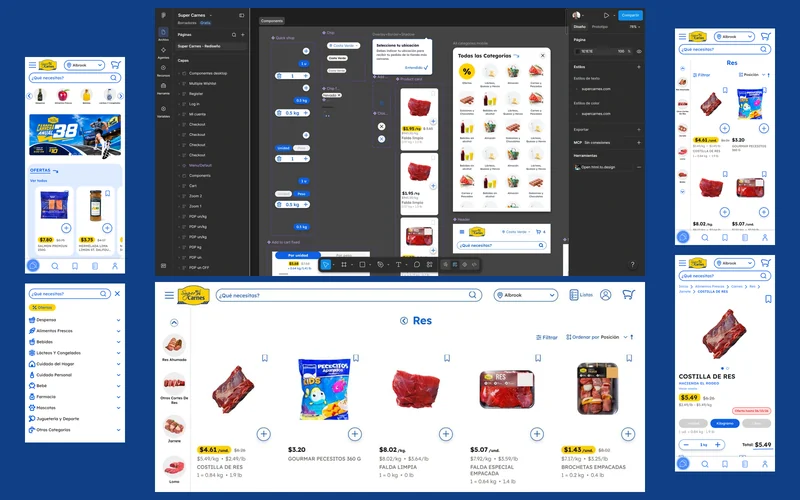
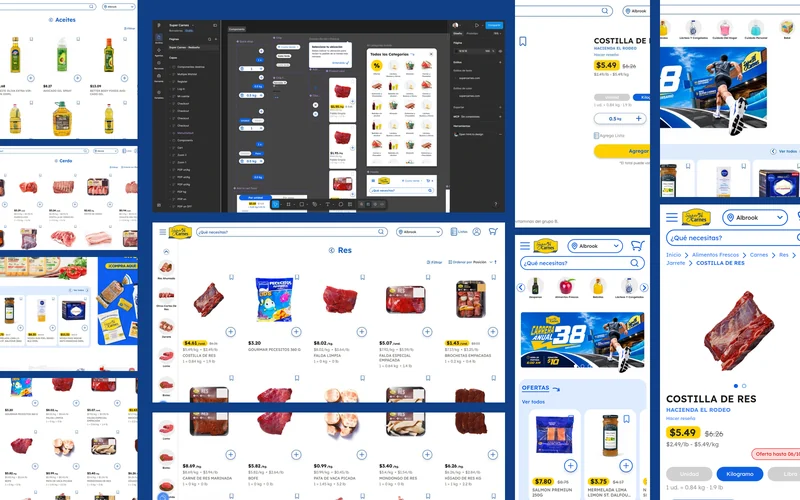
Super Carnes: el mosaico pasa a la retícula del de New Balance
Cuatro columnas: las laterales sangran por los bordes con recortes de otras
categorías, el home y las ofertas; la central lleva las piezas grandes, que
son las únicas que entran en el recorte cuadrado de la tarjeta; y las dos de
la derecha combinan la ficha en escritorio con el sitio en el celular, igual
que el de New Balance.

El fondo azul de la marca queda como canaleta entre las piezas.

Claude-Session: https://claude.ai/code/session_01M2dDEhZcV7tUGrJanzxNgs

diff --git a/diseno/index.html b/diseno/index.html
@@ -231,7 +231,7 @@
           <figure>
             <img src="../img/sc-mosaico.webp"
                  srcset="../img/sc-mosaico-800.webp 800w, ../img/sc-mosaico.webp 1600w" sizes="(max-width: 900px) 92vw, 1200px" width="1600" height="1000" loading="lazy"
-                 alt="Mosaico del proyecto Super Carnes. En el centro, el archivo de Figma con la librería de componentes y, debajo, el listado en producción: cada tarjeta de producto muestra el precio por unidad y por kilo, la equivalencia entre las dos y un botón para agregar. A los costados, el sitio en el celular: el home, el menú de categorías, el listado y la ficha con el selector y el total.">
+                 alt="Mosaico del proyecto Super Carnes. En el centro, el archivo de Figma con la librería de componentes y, debajo, el listado en producción: cada tarjeta de producto muestra el precio por unidad y por kilo, la equivalencia entre las dos y un botón para agregar. Alrededor, los listados de otras categorías, el home, la ficha con el selector de unidad, kilogramo y libra, y el sitio en el celular.">
             <figcaption>El archivo de Figma y el sitio en producción: la tarjeta de producto quedó con los dos precios, la equivalencia y el botón para agregar.</figcaption>
           </figure>
           <figure>

diff --git a/en/diseno/index.html b/en/diseno/index.html
@@ -231,7 +231,7 @@
           <figure>
             <img src="../../img/sc-mosaico.webp"
                  srcset="../../img/sc-mosaico-800.webp 800w, ../../img/sc-mosaico.webp 1600w" sizes="(max-width: 900px) 92vw, 1200px" width="1600" height="1000" loading="lazy"
-                 alt="Mosaic of the Super Carnes project. At the centre, the Figma file with the component library and, below it, the live listing: every product card shows the price per unit and per kilo, the equivalence between them and a button to add. On either side, the site on a phone: the home, the category menu, the listing and the product page with its selector and total.">
+                 alt="Mosaic of the Super Carnes project. At the centre, the Figma file with the component library and, below it, the live listing: every product card shows the price per unit and per kilo, the equivalence between them and a button to add. Around them, listings from other categories, the home page, the product page with its unit, kilogram and pound selector, and the site on a phone.">
             <figcaption>The Figma file and the live site: the product card ended up with both prices, the equivalence and the add button.</figcaption>
           </figure>
           <figure>
